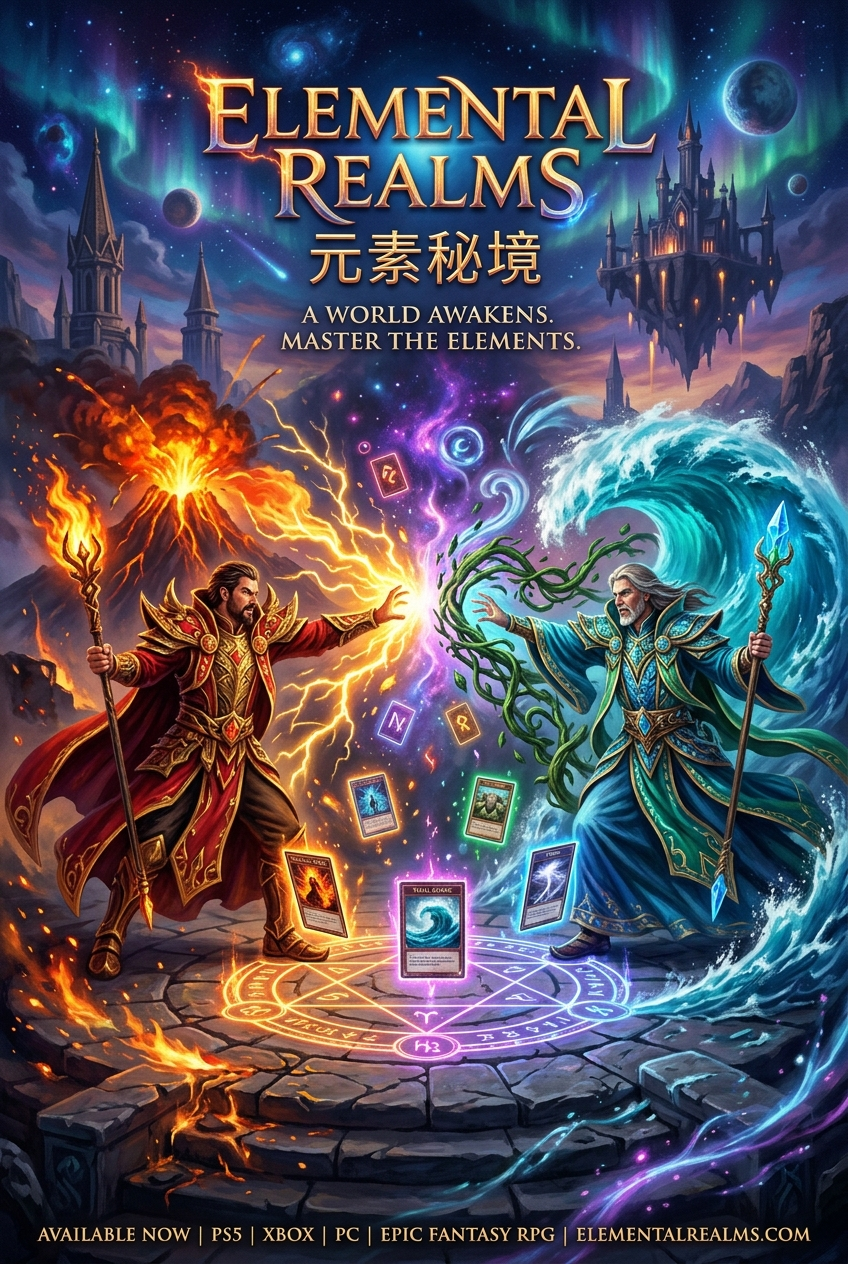
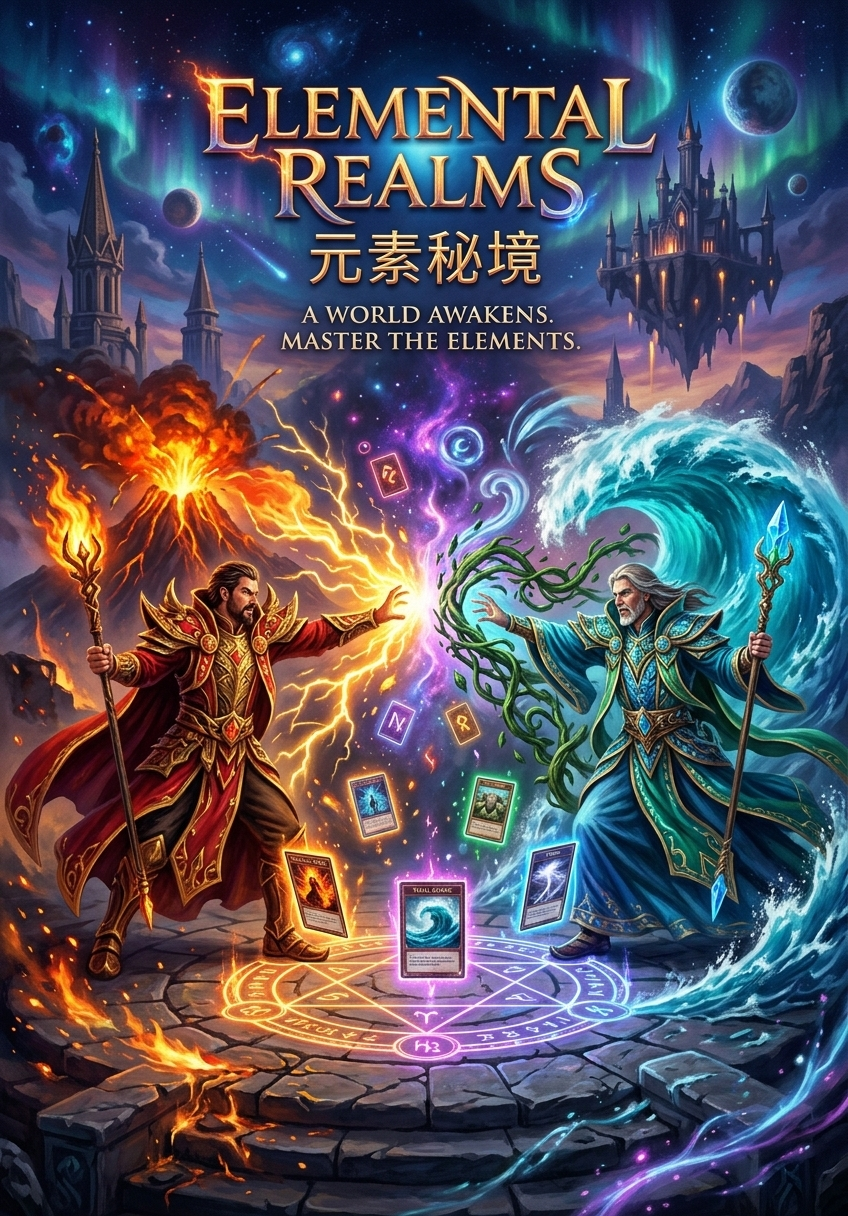
docs: update changelog and replace promotional poster image assets

diff --git a/CHANGELOG.md b/CHANGELOG.md
@@ -5,6 +5,12 @@ All notable changes to this project will be documented in this file.
 The format is based on [Keep a Changelog](https://keepachangelog.com/en/1.0.0/),
 and this project adheres to [Semantic Versioning](https://semver.org/spec/v2.0.0.html).
 
+## [Unreleased] - 2026-10-17
+
+- **官方游戏艺术宣传海报纯净版焕新（Official Promotional Poster Cleanup & Pure Artwork）**：
+  - **去除商业化条幅**：全面剔除海报底部横跨画面的「AVAILABLE NOW | PS5 | XBOX | PC | EPIC FANTASY RPG | ELEMENTALREALMS.COM」发行信息条幅，完整保留古老石阶浮雕、魔能法阵与辉光流转，画面更纯粹、质感更古雅；
+  - **超高清无损更新**：更新根目录 `poster.jpg` 与 `poster.png`，与 `README.md` 置顶展示同步焕新。
+
 ## [Unreleased] - 2026-10-16
 
 - **官方游戏艺术宣传海报创制与 README 焕新（Official Promotional Poster & Documentation Overhaul）**：
